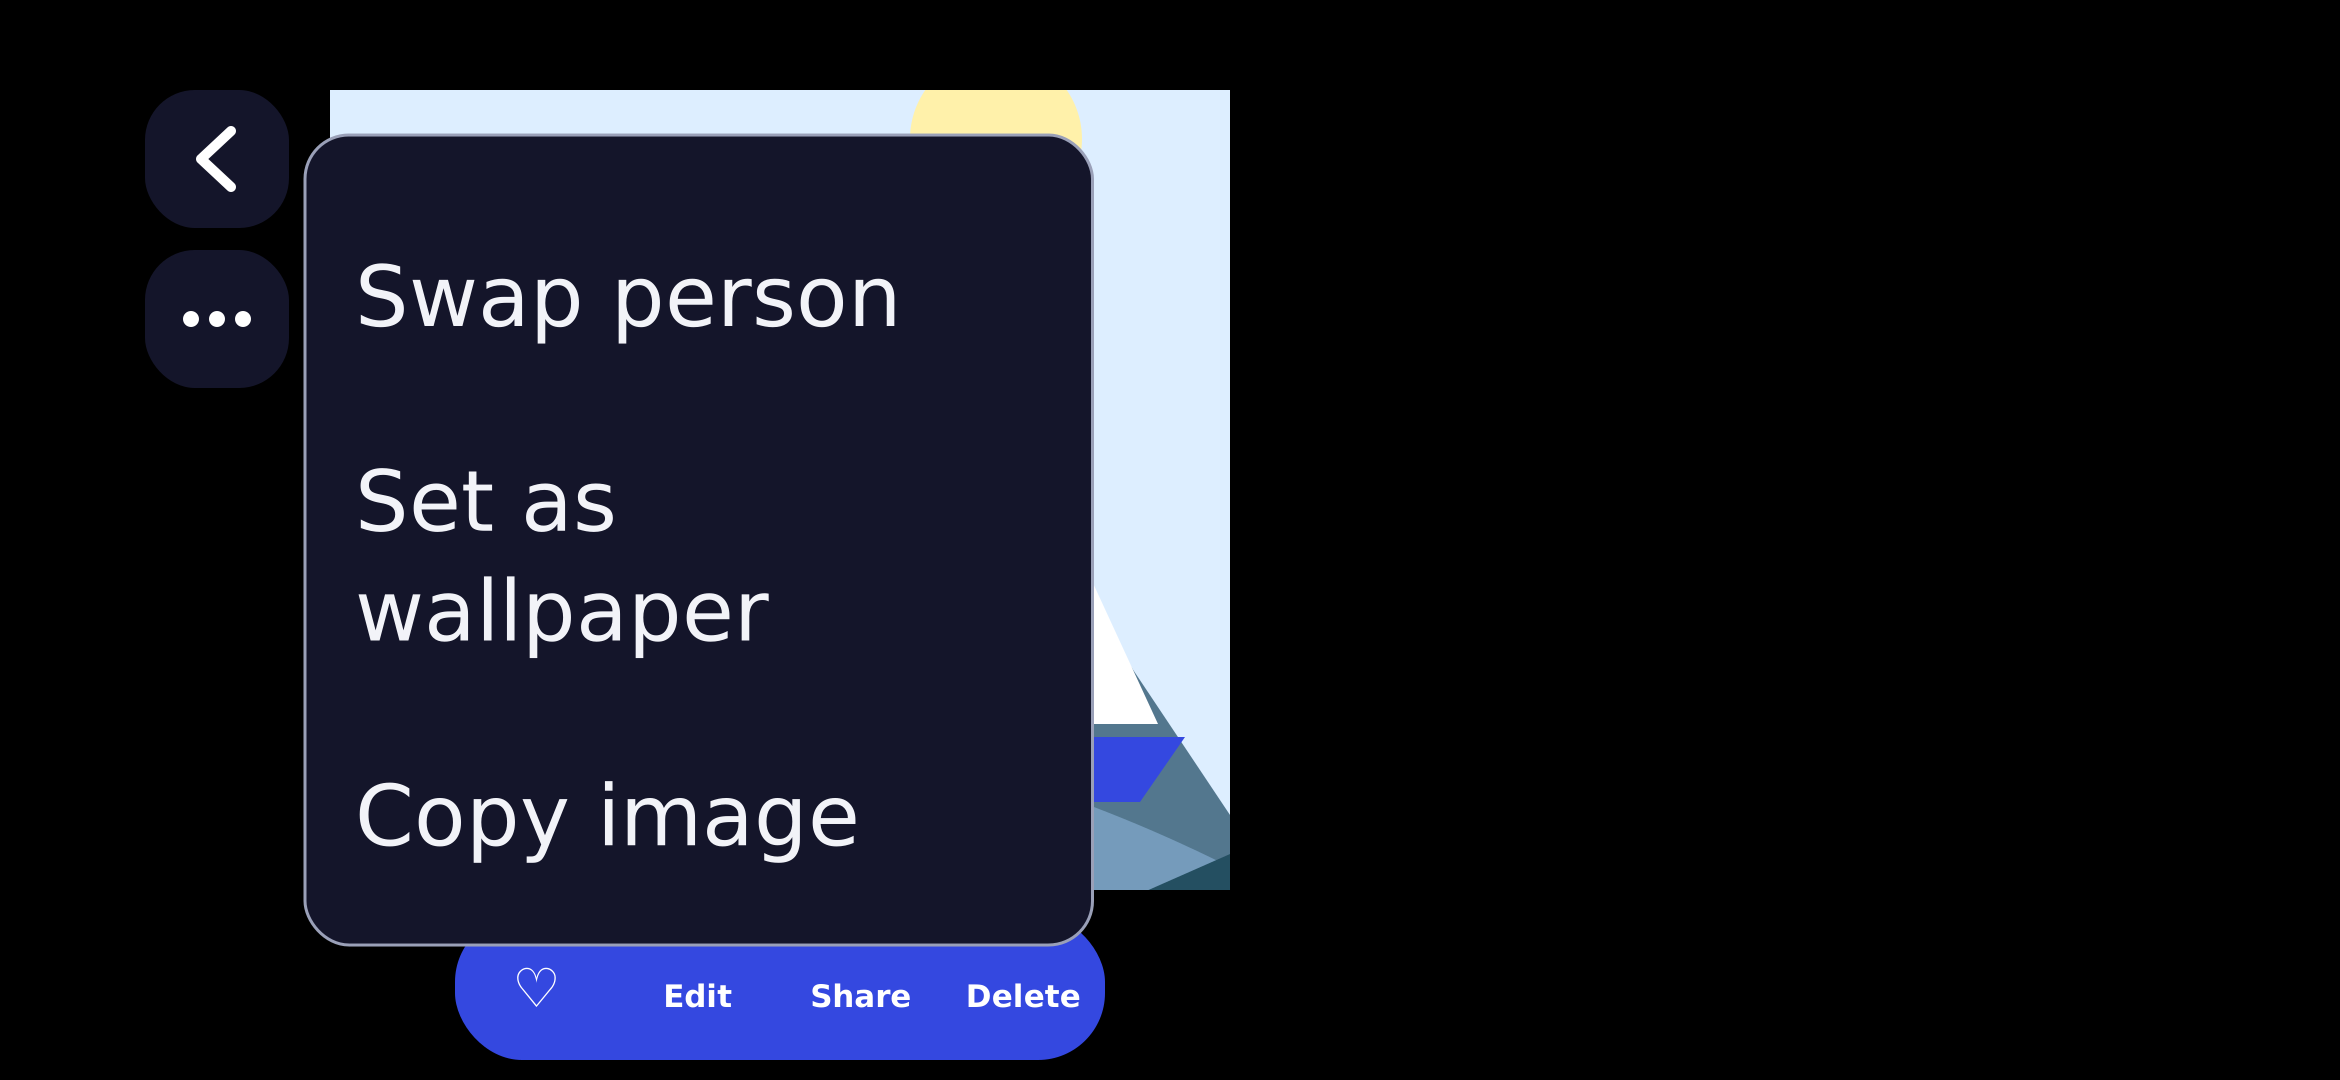
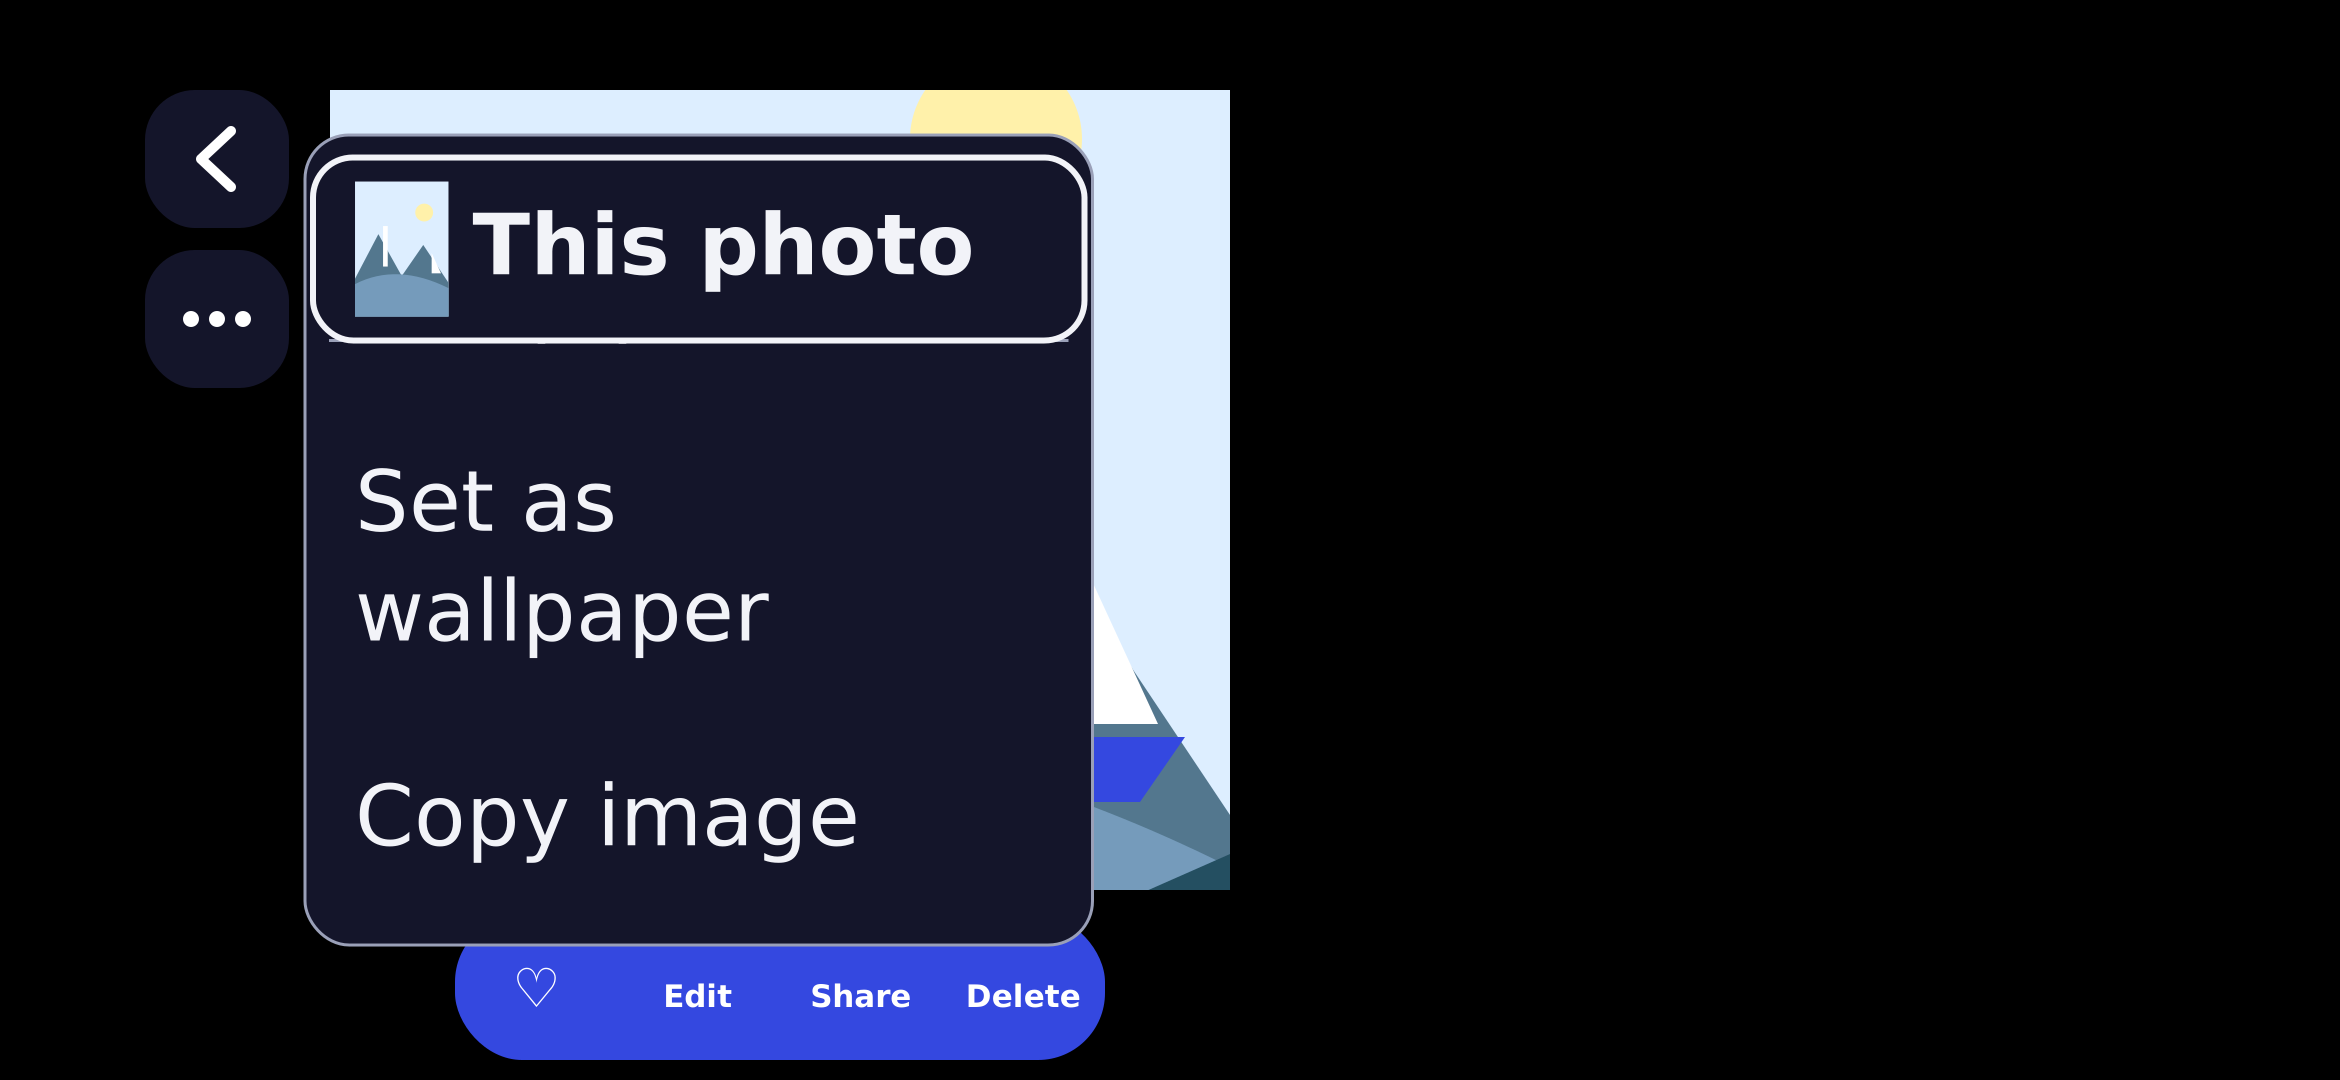
SHARE-1BC-E (#1118): pin the large-text identity row above the scrolling menu rows
Review receipt 7232764244: at 200 % landscape scrolled-to-end the identity row
scrolled offscreen. It is now a fixed header outside the scroll viewport, and the
verifier requires it fully visible and pinned whenever photo visibility is below
40 %. Documents partly shown row behaviour.

Claude-Session: https://claude.ai/code/session_01JsoPf4vAixFK5ve4VAyi6Y

Changed region(s): [[0.1248, 0.1222, 0.4679, 0.3361]]

diff --git a/docs/design/share-584-bc-target/bc_frames.py b/docs/design/share-584-bc-target/bc_frames.py
@@ -344,23 +344,25 @@ def frame_menu(name, theme, orientation, scale, items, scroll='top', identity=Fa
     fr.body.append('<g class="modal">')
     fr.rect(x, top, w, h, t['mist'] if theme == 'dark' else t['ground'], rx=44, stroke=t['ink2'], sw=3)
     fr.modal = [x, top, w, h]
-    viewport = [x, top + 2, w, h - 4]
-    if overflow > 0:
-        fr.clip_open(viewport, dy)
-        fr.scroll = {'container': 'menu', 'content_px': round(content_h, 1), 'viewport_px': r1(viewport),
-                     'offset_px': round(dy, 1), 'position': scroll,
-                     'reveal': 'focus or a swipe scrolls the menu; every item can be fully shown'}
     y = top + MENU_PAD_Y
     if identity:
+        # pinned header: drawn outside the scrolling rows, so it stays visible at any scroll position
         tx = x + ITEM_PAD_X
         fr.thumb(tx, y + 24, 135 * 900 / 1300, 135)
         ly = y + 24 + (135 - size * 1.3) / 2
         fr.para(tx + 135 * 900 / 1300 + 24, ly, 'This photo', size, t['ink'], w - 2 * ITEM_PAD_X - 135 - 24, 'bold')
-        rect = [x + 8, y, w - 16, ident_h]
-        vr, extra = _visible(rect, viewport, dy)
-        fr.control('menu-identity', 'heading', f'Actions for {ITEM["label"]}', vr, **extra)
+        fr.control('menu-identity', 'heading', f'Actions for {ITEM["label"]}', [x + 8, y, w - 16, ident_h],
+                   visibility='full', pinned=True)
         fr.rect(x + 24, y + ident_h - 1.5, w - 48, 3, t['ink2'])
         y += ident_h
+    viewport = [x, y, w, top + h - 2 - y]
+    if overflow > 0:
+        fr.clip_open(viewport, dy)
+        fr.scroll = {'container': 'menu rows (identity header pinned)', 'content_px': round(content_h, 1),
+                     'viewport_px': r1(viewport), 'offset_px': round(dy, 1), 'position': scroll,
+                     'reveal': 'focus or a swipe scrolls the rows; every item can be fully shown; '
+                               'a partly shown row is tappable on its visible part and focus scrolls it '
+                               'fully into view first'}
     for cid, label, origin, lines, ih in rows:
         for i, line in enumerate(lines):
             fr.text(x + ITEM_PAD_X, y + ITEM_PAD_Y + size * 0.95 + i * size * 1.3, line, size, t['ink'],
@@ -653,7 +655,7 @@ def verify_frame(g, svg, png, bg, palette, errors):
         checks += 1
         if not inside(r, g['modal_px']):
             errors.append(f'{name}/{c["id"]}: outside its surface')
-        if g['scroll'] and not inside(r, g['scroll']['viewport_px']) and c['id'] != 'ok':
+        if g['scroll'] and not inside(r, g['scroll']['viewport_px']) and c['id'] != 'ok' and not c.get('pinned'):
             errors.append(f'{name}/{c["id"]}: visible rect outside the scroll viewport')
         if c['role'] in TAPPABLE and vis == 'full':
             checks += 2
@@ -676,6 +678,10 @@ def verify_frame(g, svg, png, bg, palette, errors):
             errors.append(f'{name}: still-image menu lacks Set as wallpaper or Copy image')
         if (g['font_scale'] >= 1.5) != ('menu-identity' in ids):
             errors.append(f'{name}: identity row must appear exactly when font scale >= 1.5')
+        ident = next((c for c in controls if c['id'] == 'menu-identity'), None)
+        if ident and (ident.get('visibility', 'full') != 'full' or not ident['rect_px']
+                      or (g['scroll'] and not ident.get('pinned'))):
+            errors.append(f'{name}: identity row is not fully visible and pinned')
         if 'swap-person' in labels and 'ai-edit' not in labels:
             errors.append(f'{name}: Swap person without AI Edit')
     else:
@@ -686,7 +692,8 @@ def verify_frame(g, svg, png, bg, palette, errors):
             errors.append(f'{name}: error offers an action other than OK')
         checks += 2
     checks += 1
-    if g['photo_visible_fraction'] < MIN_PHOTO_VISIBLE and 'menu-identity' not in ids:
+    shown_ids = {c['id'] for c in controls if c.get('visibility', 'full') == 'full' and c['rect_px']}
+    if g['photo_visible_fraction'] < MIN_PHOTO_VISIBLE and 'menu-identity' not in shown_ids:
         errors.append(f'{name}: photo {g["photo_visible_fraction"]:.0%} visible and no explicit item identity')
     if g['scroll']:
         checks += 1

diff --git a/docs/design/share-584-bc-target/README.md b/docs/design/share-584-bc-target/README.md
@@ -19,7 +19,9 @@ More is shown whenever at least one item applies (today only when AI Edit applie
 
 **At 200 % text the menu reflows; it never shrinks text.** The menu follows the Material 3 `DropdownMenu` limits: width 112–280 dp (labels wrap at 280 dp, so `Set as wallpaper` takes two lines), rows grow with their text and stay ≥ 48 dp, and the popup keeps a 48 dp margin from the window edge. When it is still too tall, it first moves up, then scrolls (landscape). A cut-off row is the scroll cue; focus or a swipe brings every item fully into view.
 
-**Explicit item identity at large text.** At font scale ≥ 1.5 the larger popup hides most of the photo (20–29 % stays visible), so the menu opens with a non-interactive row: a thumbnail of the current photo and **This photo**, announced as “Actions for *item*”. At 100 % the photo stays 62–79 % visible and no row is added. The verifier enforces the rule both ways.
+**Explicit item identity at large text.** At font scale ≥ 1.5 the larger popup hides most of the photo (20–29 % stays visible), so the menu opens with a non-interactive row: a thumbnail of the current photo and **This photo**, announced as “Actions for *item*”. The row is **pinned**: it sits outside the scrolling rows, so it stays fully visible at every scroll position, including when Set as wallpaper and Copy image are scrolled into view in landscape. A plain `DropdownMenu` scrolls its whole content, so production needs a popup with a fixed header above a scrolling column. At 100 % the photo stays 62–79 % visible and no row is added. The verifier enforces the rule both ways and fails any frame below 40 % photo visibility without a fully visible, pinned identity row.
+
+**Partly shown rows.** While the rows scroll, a row cut by the viewport edge is a scroll cue. Its visible part is still tappable. Keyboard or TalkBack focus scrolls it fully into view before it is activated. The annotated frames mark such rows in pink, and the verifier requires every one to be fully shown in the matching scrolled frame.
 
 **Atlas-owned errors, same dialog at any text size.** The title and body form one message that takes focus first (drawn with the focus outline) and is read whole. When it does not fit (landscape, 200 %), the message scrolls with a position bar on its trailing edge while **OK stays pinned** and reachable. OK or system Back returns to the same viewer item. Nothing is changed: no wallpaper, no clipboard write, no file change.
 
@@ -45,7 +47,7 @@ Portrait 1080×2340 and landscape 2340×1080 at 2.8125 px/dp, synthetic safe ins
 | Unsupported / revoked (B) | 100 % [light](png/B-unsupported-light.png) / [dark](png/B-unsupported-dark.png); 200 % [light](png/B-unsupported-light-200.png) / [dark](png/B-unsupported-dark-200.png); 200 % landscape [light](png/B-unsupported-light-200-landscape.png) / [dark](png/B-unsupported-dark-200-landscape.png), scrolled [light](png/B-unsupported-light-200-landscape-scrolled.png) / [dark](png/B-unsupported-dark-200-landscape-scrolled.png) |
 | Revoked (C) | 100 % [light](png/C-revoked-light.png) / [dark](png/C-revoked-dark.png); 200 % [light](png/C-revoked-light-200.png) / [dark](png/C-revoked-dark-200.png); 200 % landscape [light](png/C-revoked-light-200-landscape.png) / [dark](png/C-revoked-dark-200-landscape.png), scrolled [light](png/C-revoked-light-200-landscape-scrolled.png) / [dark](png/C-revoked-dark-200-landscape-scrolled.png) |
 
-**Annotated geometry:** every 200 % frame has a twin in [`annotated/`](annotated/) with each control's semantic rectangle, its focus-order number and its size in dp (green: fully shown; pink: partly shown, scrolls into view), the surface outline (orange) and the scroll viewport (blue). Overlays are a review aid, not part of the design.
+**Annotated geometry:** every 200 % frame has a twin in [`annotated/`](annotated/) with each control's semantic rectangle, its focus-order number and its size in dp (green: fully shown; pink: partly shown, scrolls into view on focus), the surface outline (orange) and the scroll viewport (blue). Overlays are a review aid, not part of the design.
 
 ## Geometry, focus and dismissal
 
@@ -62,9 +64,9 @@ Portrait 1080×2340 and landscape 2340×1080 at 2.8125 px/dp, synthetic safe ins
 python3 docs/design/share-584-bc-target/bc_frames.py --build --render --verify
 ```
 
-Needs Python 3, CairoSVG, Pillow and DejaVu Sans. `--build` writes SVG and `geometry.json`; `--render` writes `png/` and `annotated/`; `--verify` re-renders each SVG and compares it with the committed PNG. It then checks Quiet Frame v3 palette tokens, text fit and ≥ 4.5:1 contrast for every readable text run, ≥ 48 dp size, safe insets and non-overlap of every fully shown tappable control, containment in the surface and scroll viewport, focus order equal to the active controls, viewer isolation, declared dismissal, error focus-first and OK-only actions, menu order and still-image items, the identity-row rule, a visible photo ≥ 40 % or explicit identity, exact 2× type of each 200 % frame against its 100 % counterpart, and that every row hidden at scroll top is fully shown in the scrolled frame.
+Needs Python 3, CairoSVG, Pillow and DejaVu Sans. `--build` writes SVG and `geometry.json`; `--render` writes `png/` and `annotated/`; `--verify` re-renders each SVG and compares it with the committed PNG. It then checks Quiet Frame v3 palette tokens, text fit and ≥ 4.5:1 contrast for every readable text run, ≥ 48 dp size, safe insets and non-overlap of every fully shown tappable control, containment in the surface and scroll viewport, focus order equal to the active controls, viewer isolation, declared dismissal, error focus-first and OK-only actions, menu order and still-image items, the identity-row rule (fully visible and pinned when the rows scroll), a visible photo ≥ 40 % or explicit identity, exact 2× type of each 200 % frame against its 100 % counterpart, and that every row hidden at scroll top is fully shown in the scrolled frame.
 
-Result at this commit: **34 frames** (24 at 200 %, 16 landscape), 97 controls, 353 control checks, 30 scale and scroll checks, 273 text runs, minimum contrast **6.26:1**, **0 errors**.
+Result at this commit: **34 frames** (24 at 200 %, 16 landscape), 97 controls, 345 control checks, 30 scale and scroll checks, 273 text runs, minimum contrast **6.26:1**, **0 errors**.
 
 ## Matrix: rendered, specified, runtime-untested
 
